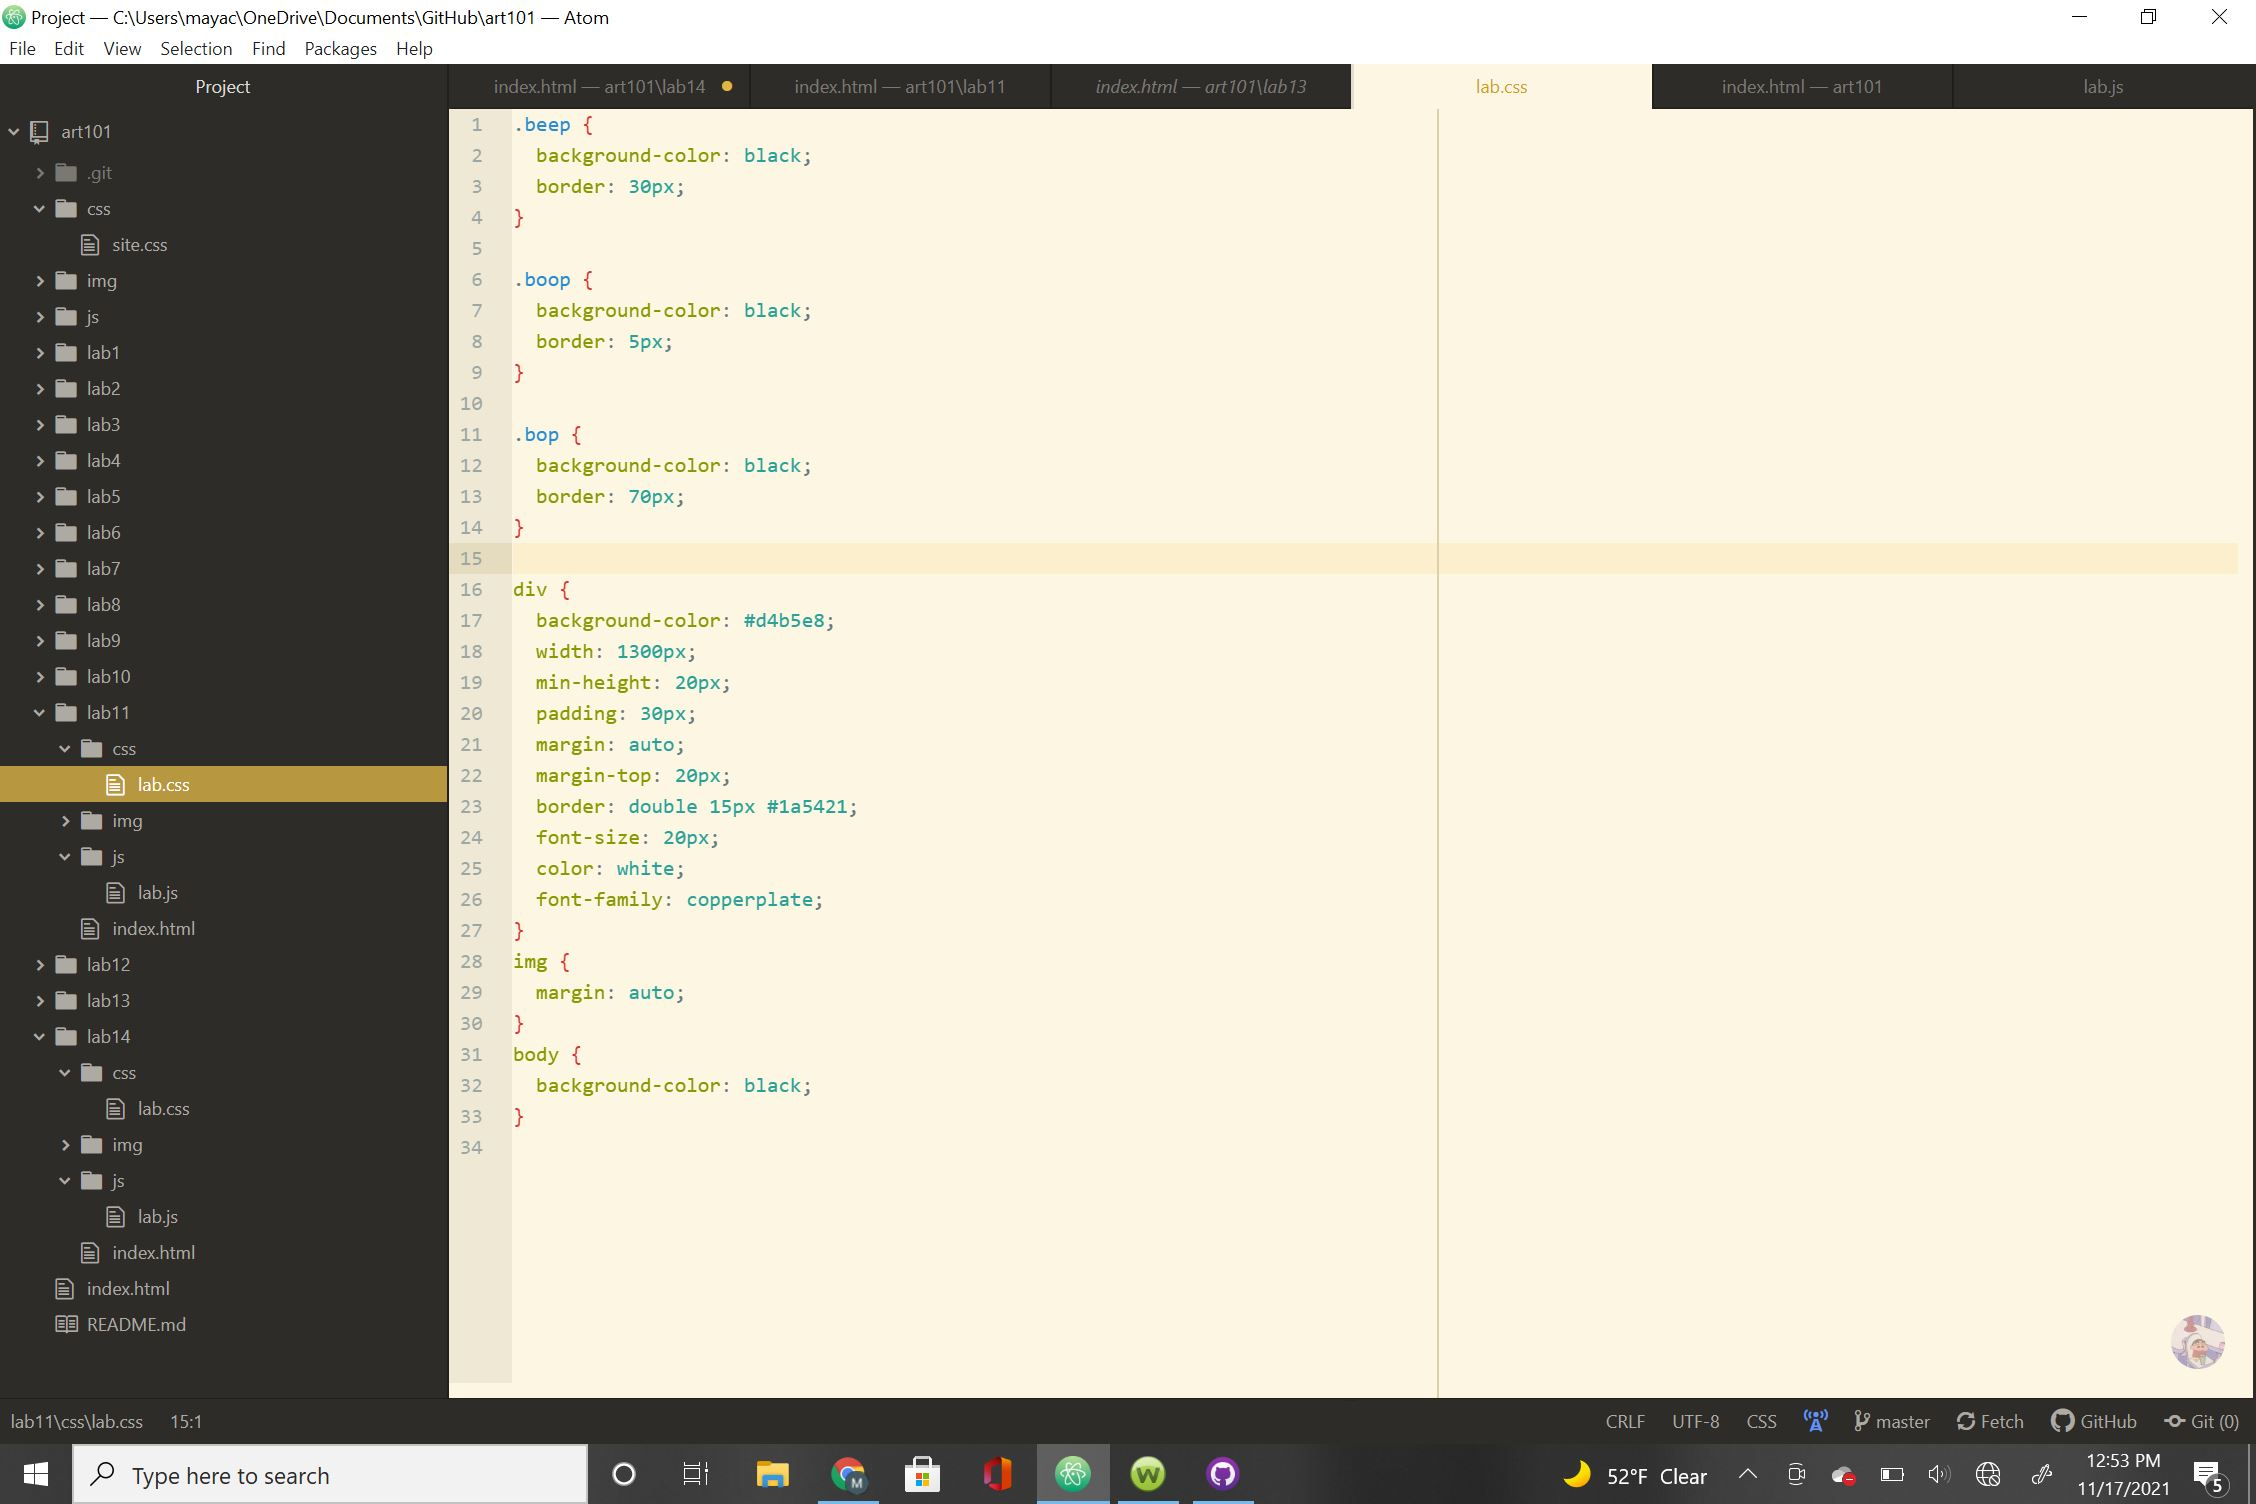
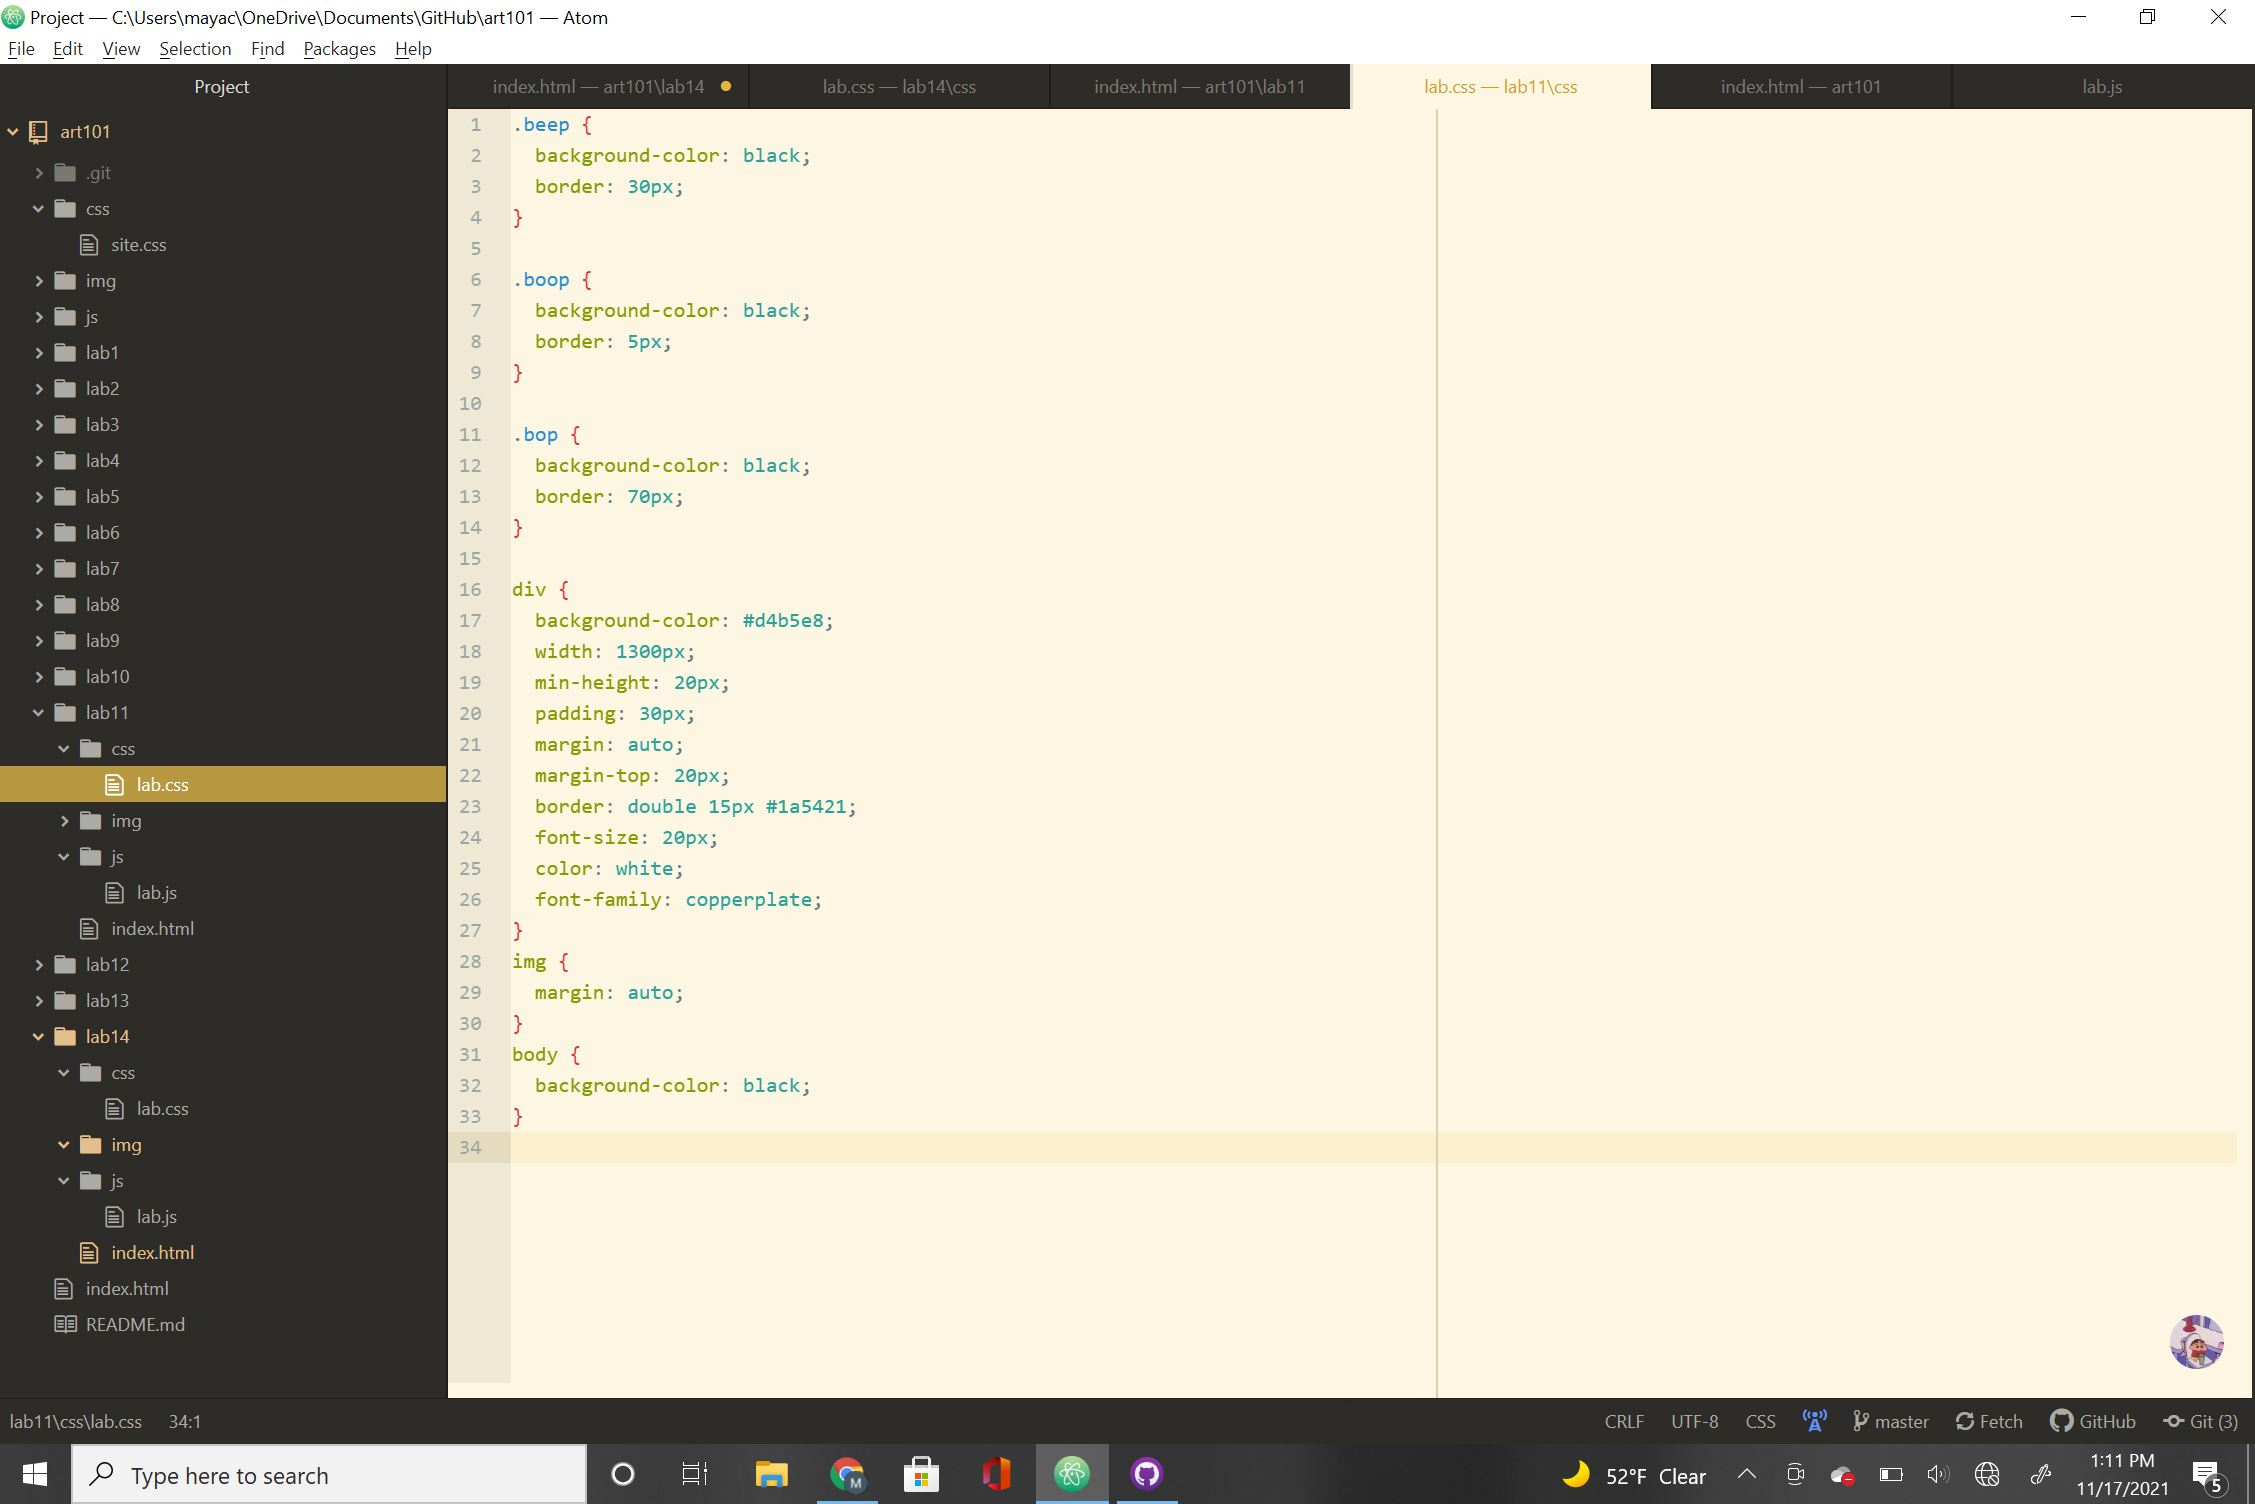
lab 14

diff --git a/lab14/index.html b/lab14/index.html
@@ -1,3 +1,4 @@
+<!DOCTYPE html>
 <html>
   <head>
     <title>Lab 14: Debugging</title>
@@ -12,12 +13,14 @@
         <h2>Challenges</h2>
           <p>For this lab, we were given the opportunity to debug and reupload past labs that were not functioning on our websites.</p>
         <h2>Problems</h2>
-          <p>Me and my partner decided to debug my Lab 11 page, because we were never able to figure out why my buttons weren't working. It took me and my partner a lot of experimenting, but we finally noticed that the order of my CSS stylesheets within my CSS file were out of order, and the div stylesheet was overpowering the other styles. Once we switched the order around the problem was solved!</p>
+          <p>Me and my partner decided to debug my Lab 11 page, because we were never able to figure out why my buttons weren't working. </p>
         <h2>Results</h2>
           <p>The results of this lab are here!</p>
         <h2>Debugging</h2>
-          <img src="new-html.jpg">
-          <img src="new-css.jpg">
+        <p>It took me and my partner a lot of experimenting, but we finally noticed that the order of my CSS stylesheets within my CSS file were out of order, and the div stylesheet was overpowering the other styles. Once we switched the order around the problem was solved</p>
+         <img src="img/new-css.JPG">
+        <p>In addition, I added a link o my Javascript file at the end of my page, which can be seen in the image below.</p>
+         <img src="img/new-html.JPG">
       </div>
     </body>
 </html>

diff --git a/lab14/css/lab.css b/lab14/css/lab.css
@@ -12,6 +12,7 @@
 }
 img {
   margin: auto;
+  width: 600px;
 }
 body {
   background-color: black;
